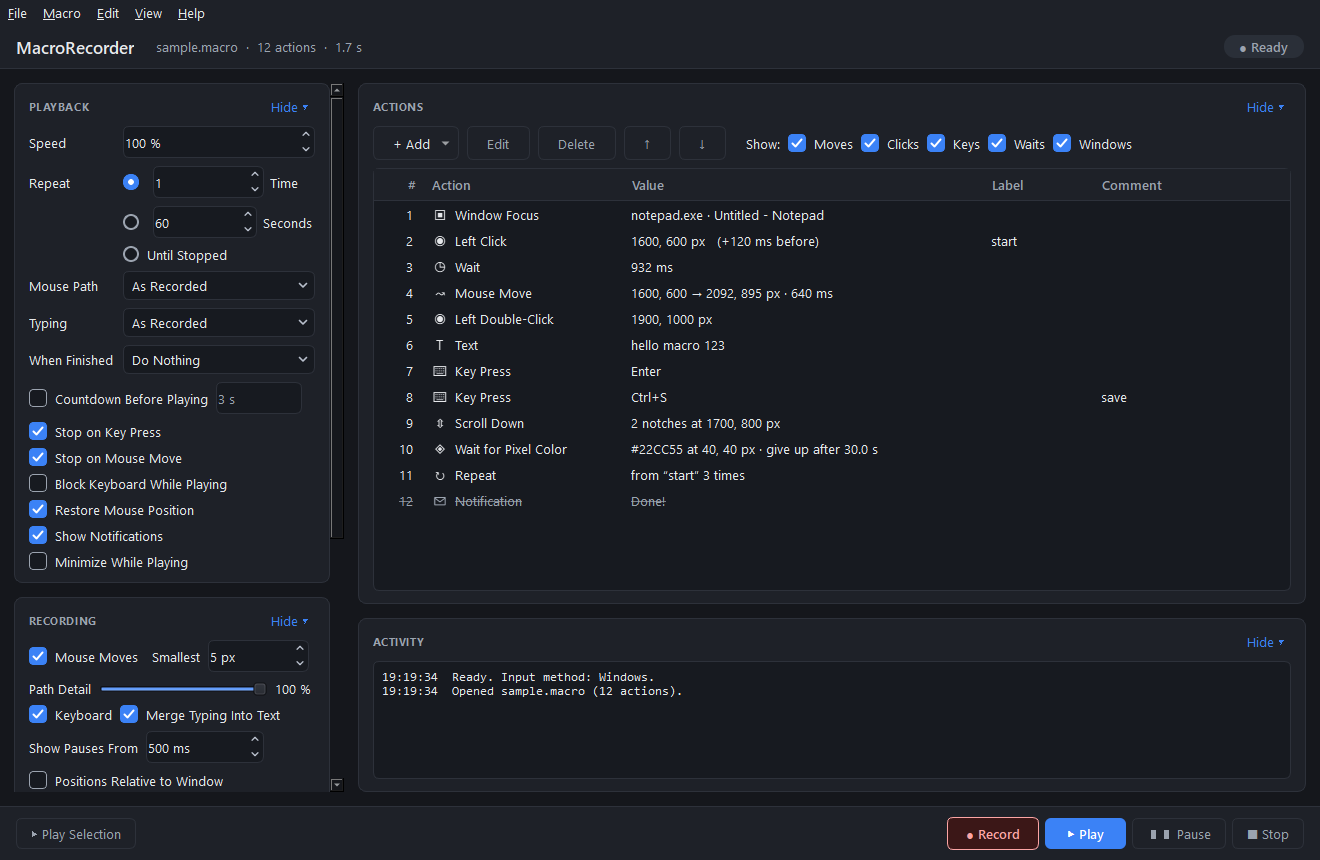
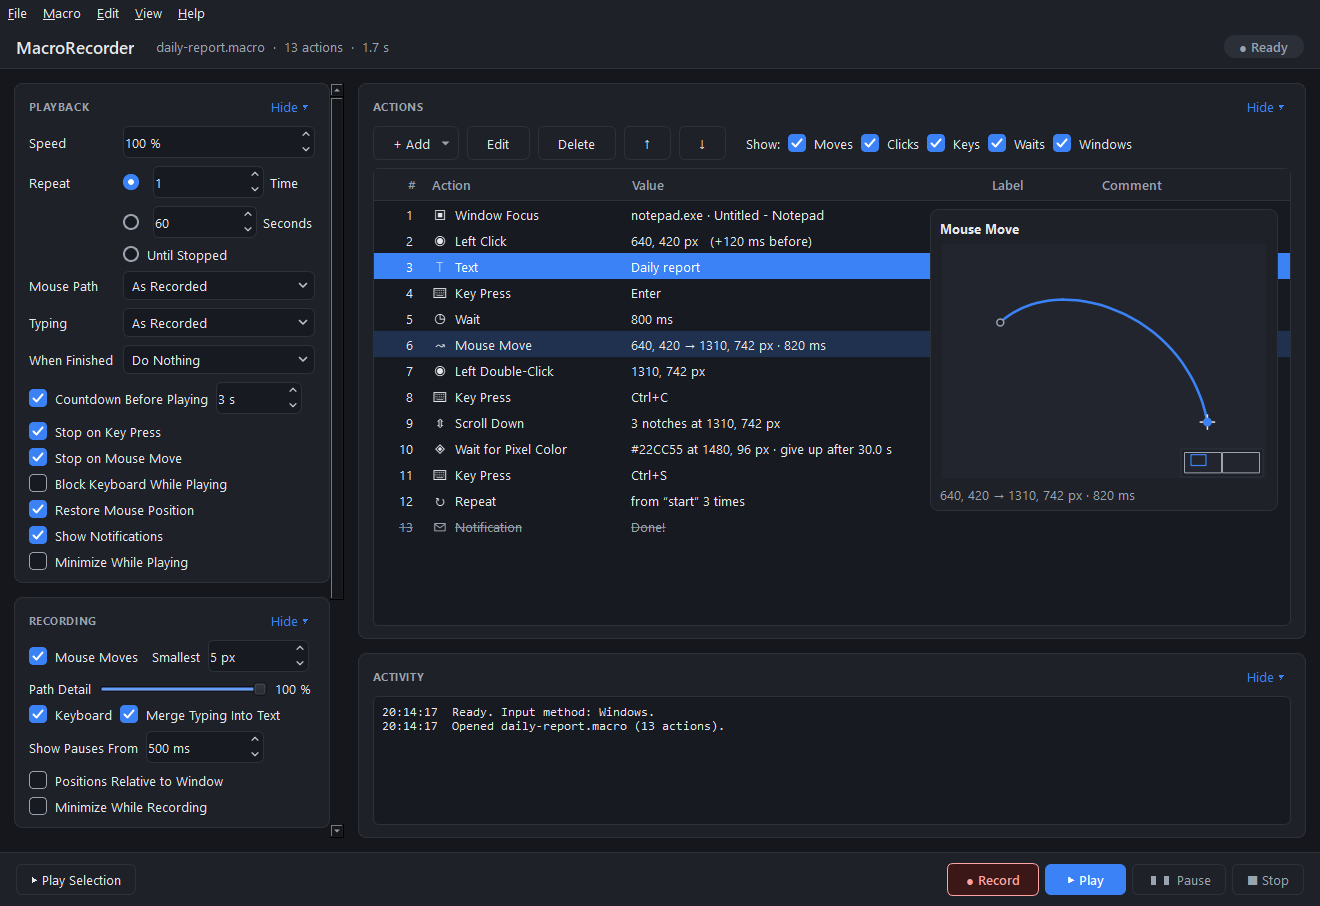
README: new pictures (step preview, selection box), Settings Not Kept, list shortcuts (#6)

diff --git a/README.md b/README.md
@@ -3,14 +3,18 @@
 Record what you do with the mouse and keyboard, edit it step by step, and play it back as many times as you like.
 Free and open source (GPL-3.0). One file to download: nothing to install.
 
-![MacroRecorder's main window](.github/screenshot.png)
+![The main window: a recorded macro in the list, one step selected, and the pointer on a Mouse Move step, whose path is drawn on the right](.github/screenshot.png)
+
+*A recorded macro. Step 3 is selected; the pointer is on step 6, so its mouse path is drawn on the right.*
 
 ## What it does
 
 - **Records** mouse moves, clicks, double-clicks, drags, scrolling, key presses, shortcuts and typed text, plus
   which window you were working in.
 - **Shows each step in a list** you can edit: change a position, a key or a pause, add steps by hand, reorder,
-  copy and paste, disable steps, undo and redo.
+  copy and paste, disable steps, undo and redo. Select steps with a click or by dragging a box over them.
+- **Previews a step when you point at it:** a mouse move's path, or the spot where a click lands, is drawn
+  beside the list.
 - **Plays it back** exactly: clicks land on the same pixel, and the timing of your clicks, typing and pauses is
   kept. Play faster or slower, repeat a number of times, for a while, or until you stop it.
 - **Steps you can add yourself:** click, move, scroll, button down/up (drags), key press or shortcut, text,
@@ -66,7 +70,9 @@ Activity log says when a step was skipped. Blocking the keyboard during playback
 ## First run
 
 The app asks where to keep its settings (theme, hotkeys, playback options, recent files). Pick any folder, or
-choose **Don't Keep App Data** to start fresh every time and leave nothing behind. You can change this later in
+choose **Don't Keep App Data** to start fresh every time and leave nothing behind. While that choice is on, a
+**Settings Not Kept** link shows at the top of the window, so it's clear why the theme and other settings start
+over each time; click it to pick a folder. You can also change this at any time in
 **File ▸ Settings ▸ Change App Data Folder…**.
 
 Your macros are saved wherever you choose when you save them.
@@ -93,11 +99,14 @@ including the empty space below the steps, and drag a selection box over the ste
 desktop or in File Explorer. Hold Ctrl to add to what's already selected; drag past the top or bottom edge to
 scroll. Clicking empty space clears the selection.
 
+![The Light theme, with a selection box dragged up from the empty space under the steps and five steps selected](.github/screenshot-select.png)
+
 ### Previewing a step
-The row under the pointer is lightly highlighted. Point at a mouse step (a move, click, scroll or pixel check),
-anywhere on its row, and a small animated picture appears in the list's right-hand side: the move's path traced at its
-recorded speed, or the spot where it clicks or scrolls, zoomed in, with a small map of your screens in the corner.
-Turn it off with **View ▸ Preview Steps on Hover**.
+The row under the pointer is lightly highlighted (a selected row is highlighted more strongly). Point at a mouse
+step (a move, click, scroll or pixel check), anywhere on its row, and a small animated picture appears in the
+list's right-hand side: the move's path traced at its recorded speed, or the spot where it clicks or scrolls,
+zoomed in, with a small map of your screens in the corner. The picture at the top of this page shows it. Turn it
+off with **View ▸ Preview Steps on Hover**.
 
 ### The cards
 Each card folds to its title with **Hide ▾** / **Show ▴**.
@@ -153,6 +162,18 @@ pick that label. "3 times" plays the part three times in total.
   Mark Selected Step on Screen, Preview Steps on Hover, Reset View Options.
 - **Help**: Project Website, Open App Data Folder, Report a Problem, About.
 
+### Keyboard shortcuts in the list
+| Keys | What they do |
+|---|---|
+| **F2** (or double-click) | Edit the selected step |
+| **Delete** | Delete the selected steps |
+| **Ctrl+E** | Enable or disable the selected steps |
+| **Alt+↑** / **Alt+↓** | Move the selected steps up or down |
+| **Ctrl+X** / **Ctrl+C** / **Ctrl+V** | Cut, copy, paste |
+| **Ctrl+A** | Select all steps |
+| **Ctrl+Z** / **Ctrl+Y** | Undo, redo |
+| **Ctrl+H** | Find and Replace |
+
 ## Command line
 
 ```
@@ -175,7 +196,9 @@ Example: `MacroRecorder.exe "C:\path\to\daily-report.macro" --play --repeat 3 --
 ## Macro files
 
 Macros are saved as `.macro` files: plain JSON you can read, compare and fix in any text editor. Each step is
-one object with a `type` (`mouse_click`, `text`, `wait`, …) and its values. Positions are screen pixels.
+one object with a `type` (`mouse_click`, `text`, `wait`, …) and its values. Positions are screen pixels, or
+pixels from the window's corner for steps recorded with **Positions Relative to Window** (those carry
+`"relative_to_window": true`).
 
 ## Building from source
 
@@ -227,7 +250,7 @@ Copyright © 2026 cincottash. Licensed under the [GNU General Public License v3.
 
 Built with [Qt](https://www.qt.io) (LGPL-3.0).
 
-The Dark themes and Light themes use colors from these open-source editor color schemes, adjusted for
+The Dark Themes and Light Themes use colors from these open-source editor color schemes, adjusted for
 readability as app themes: Nord, Dracula, Solarized, Gruvbox, One Dark / One Light, Tokyo Night, Catppuccin
 (Mocha, Macchiato, Frappé, Latte), Rosé Pine (main, Moon, Dawn), Everforest, Kanagawa (Wave, Lotus), Ayu (Dark,
 Mirage, Light), Palenight, Night Owl, Cobalt2, Synthwave '84, Tomorrow (Night and Day), Monokai and Zenburn.
